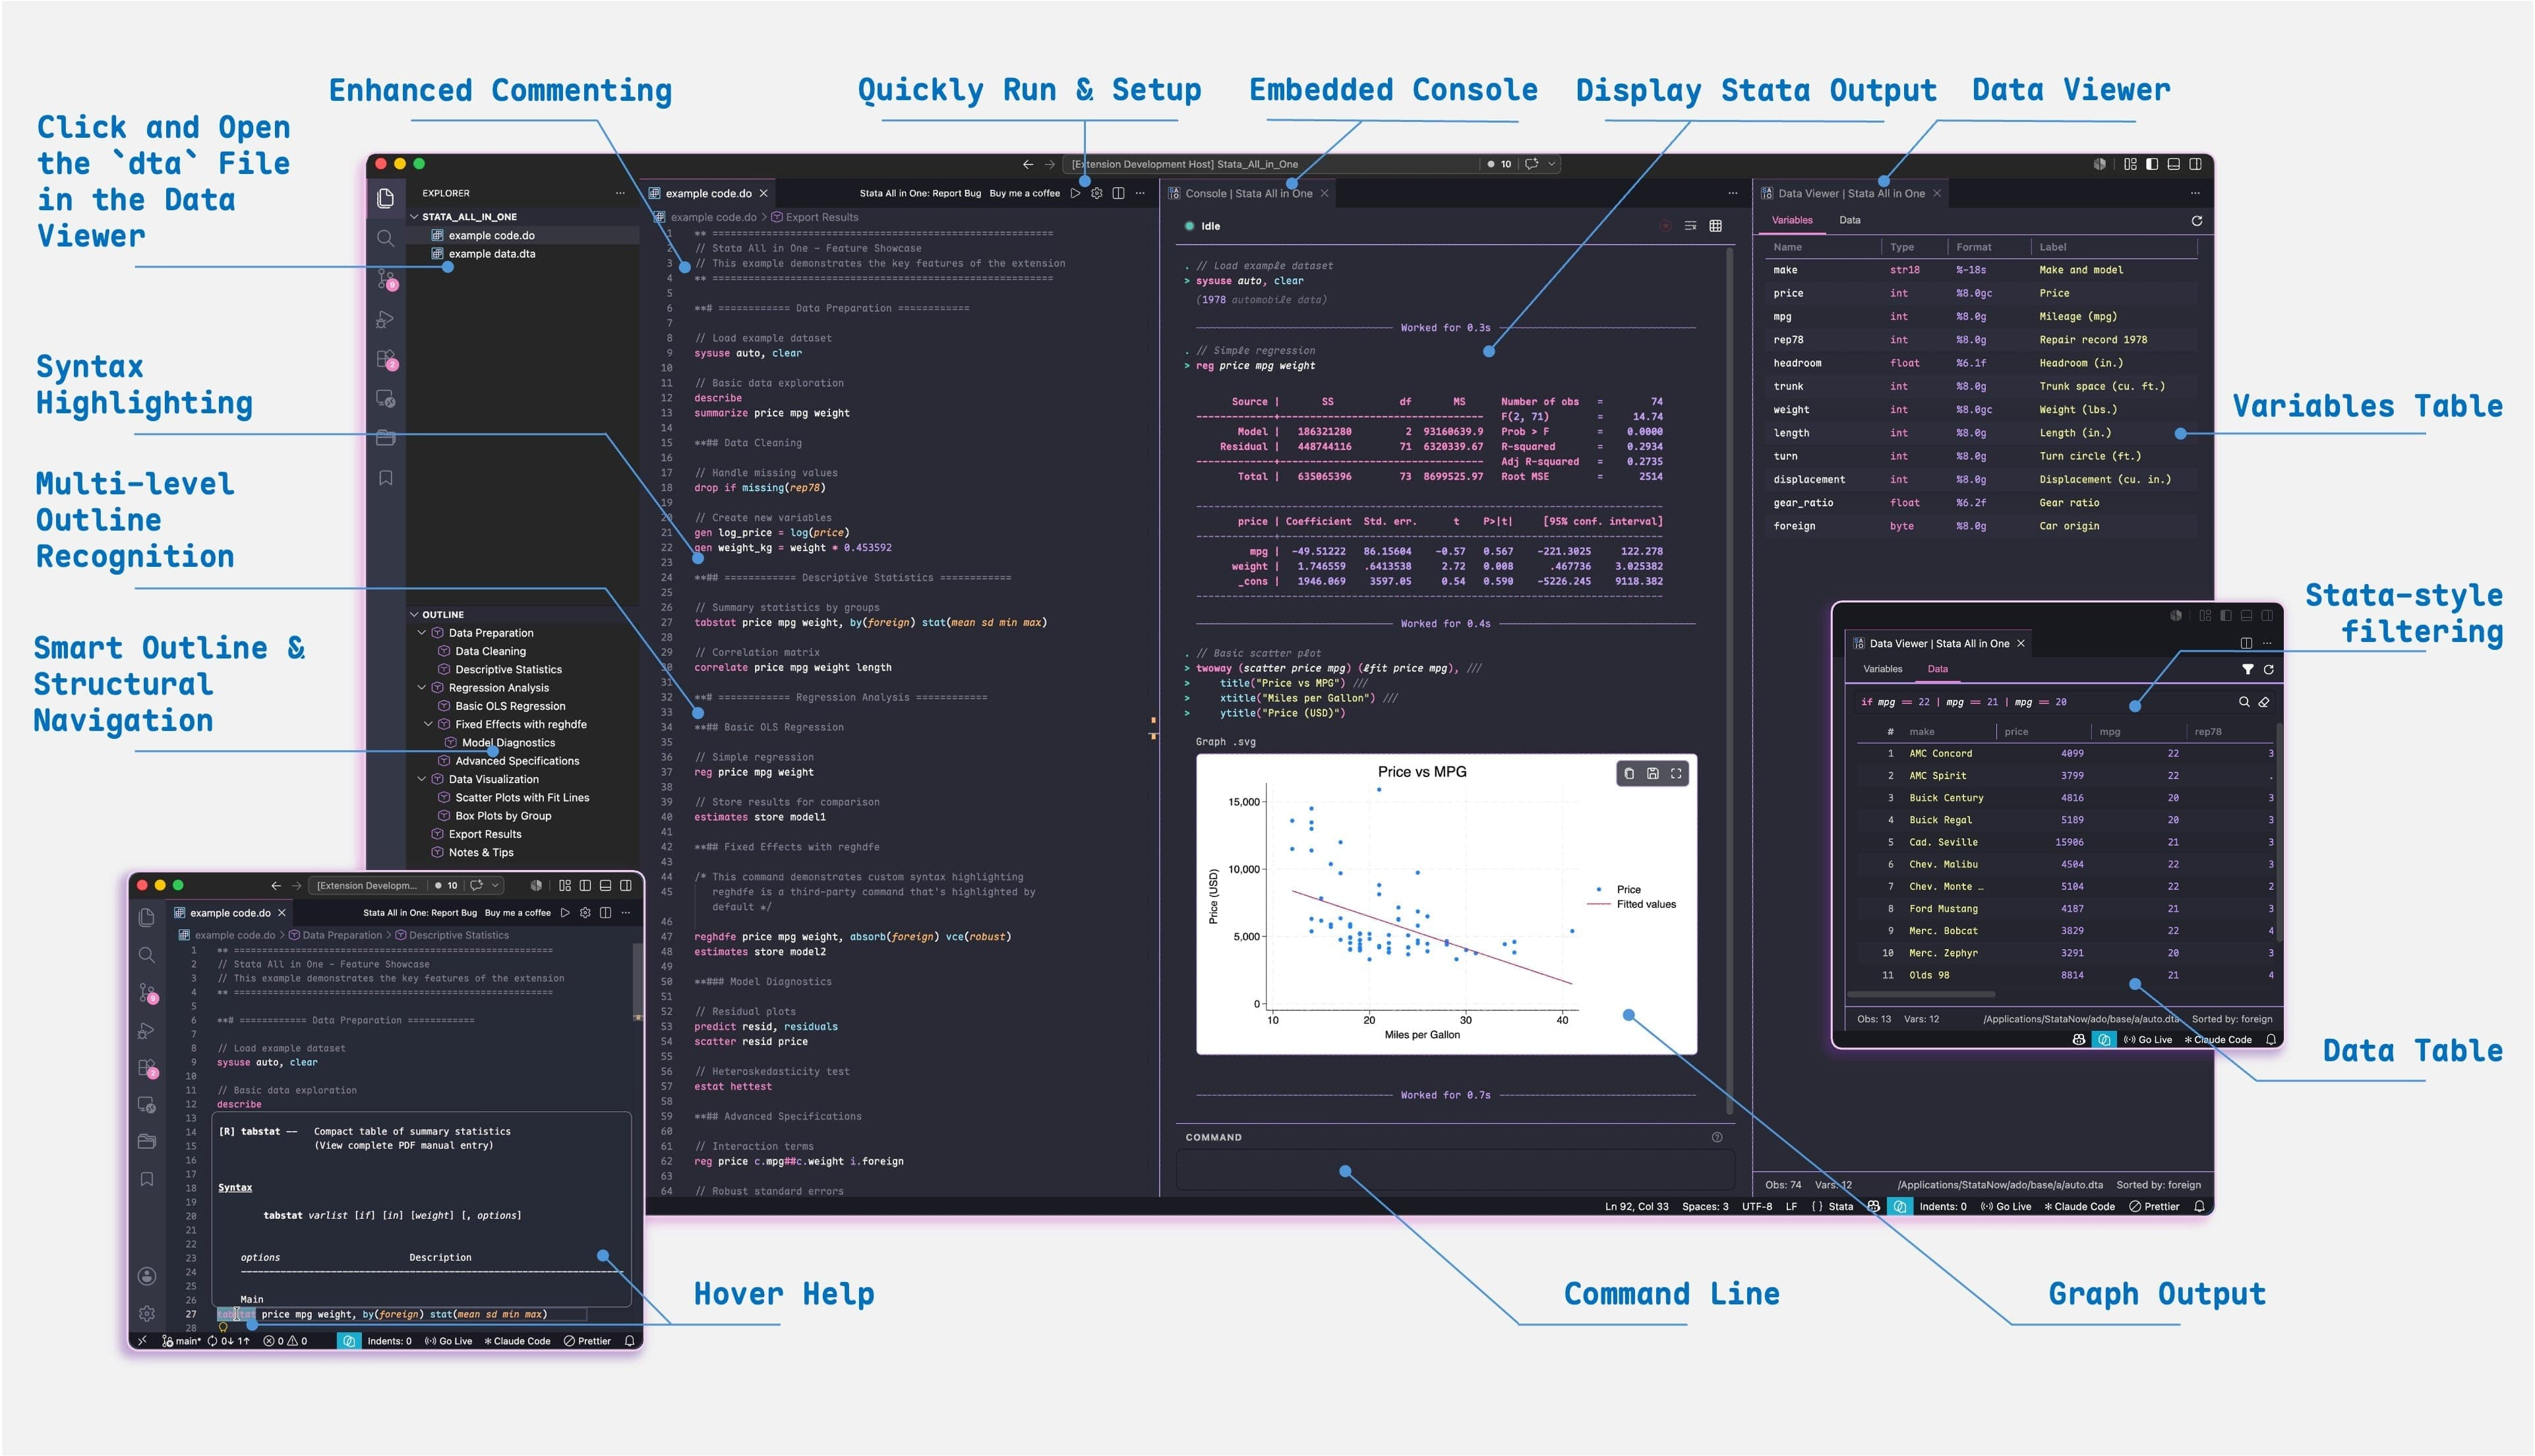
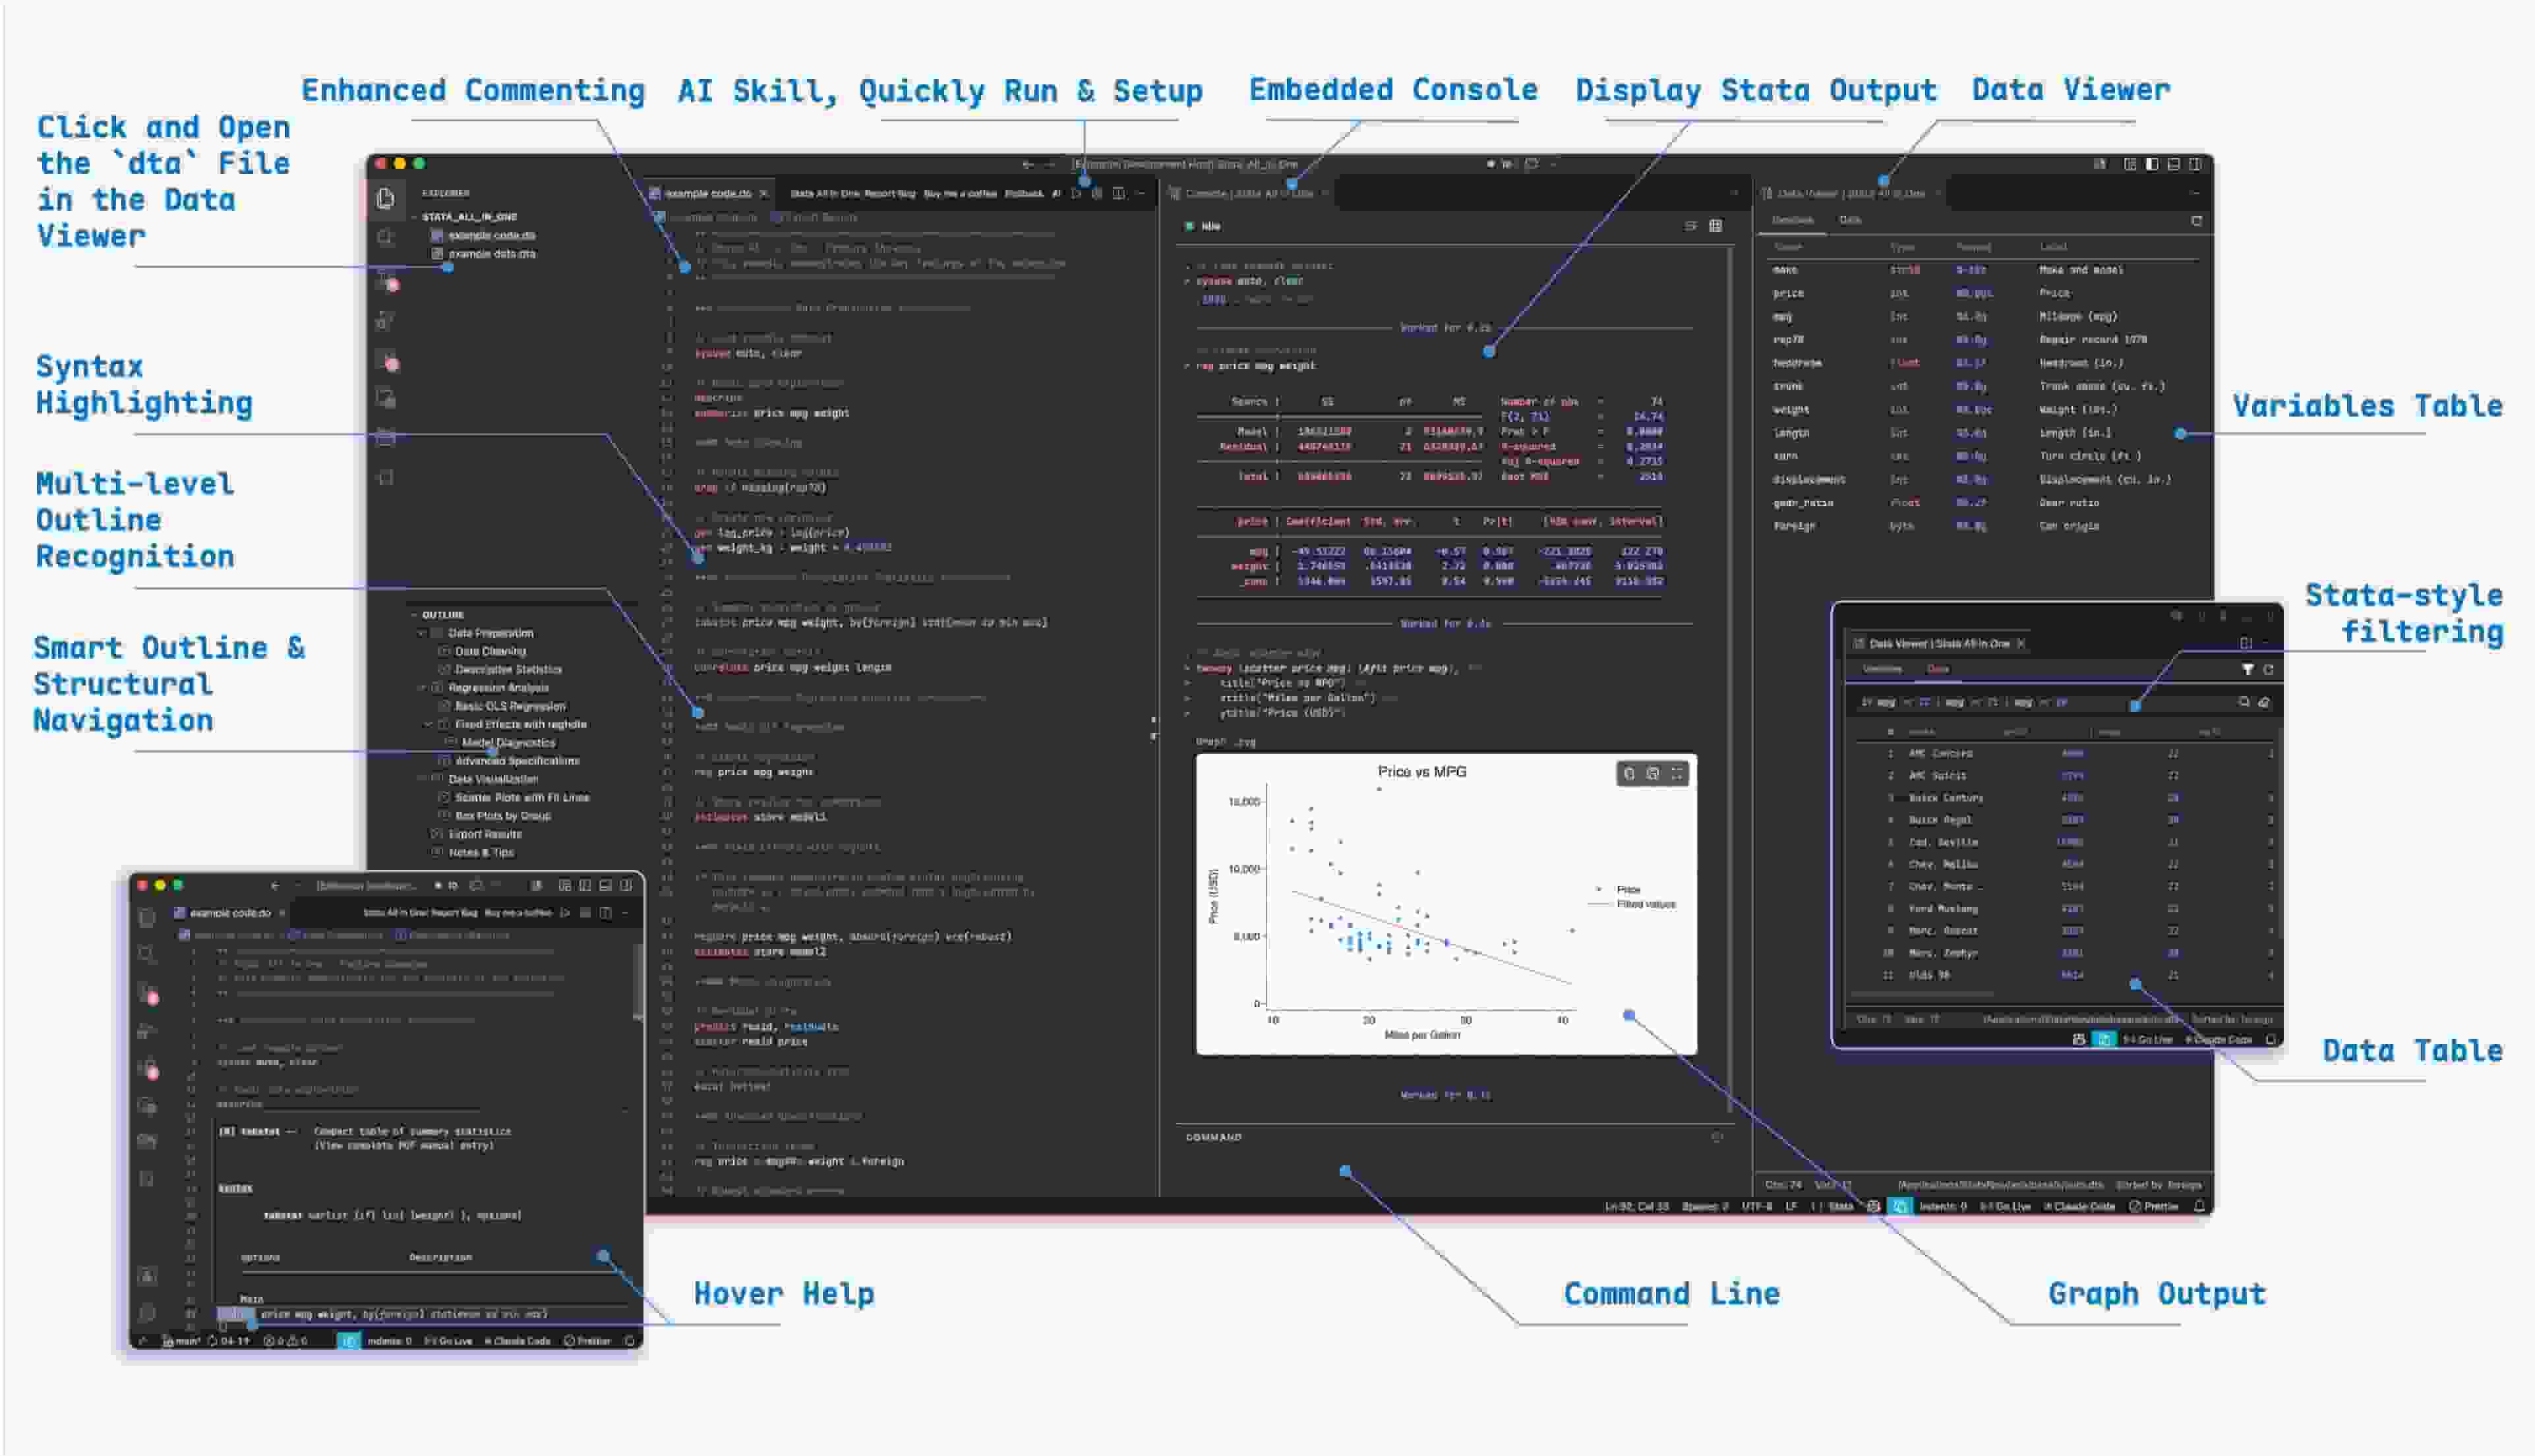
release: prepare v0.3.0 stable release
- 更新版本号到 0.3.0，并同步中英文 README 与 CHANGELOG。
- 移除预览版弹窗、回退按钮和无关调试命令，仅保留 update notice。
- 更新 0.3.0 更新提示链接、正式版展示图片和赞助致谢。

diff --git a/src/extension.js b/src/extension.js
@@ -31,7 +31,6 @@ const config = require('./utils/config');
 
 // Execution session state context key for "stop" button visibility
 const CONSOLE_SESSION_ACTIVE_KEY = 'stata-all-in-one.consoleSessionActive';
-const { showPreviewNotification, resetPreviewNotification, executeRollback } = require('./modules/previewNotification');
 
 const MIGRATION_MESSAGES = {
     en: {
@@ -296,9 +295,6 @@ async function activate(context) {
     // Check for updates and show notification
     registerUpdateCheck(context);
 
-    // Show preview version notification (≥ v0.2.14, < v0.3.0)
-    showPreviewNotification(context);
-
     try {
         await ensureConsoleFontCache(context);
     } catch (error) {
@@ -492,15 +488,6 @@ async function activate(context) {
     );
     context.subscriptions.push(sponsorCommand);
 
-    // Register rollback version command
-    const rollbackCommand = vscode.commands.registerCommand(
-        'stata-all-in-one.rollbackVersion',
-        () => {
-            executeRollback();
-        }
-    );
-    context.subscriptions.push(rollbackCommand);
-
     // Register data viewer command
     const { revealDataViewer } = require('./modules/runCode/embeddedConsole/dataViewer/panel');
     const dataViewerCommand = vscode.commands.registerCommand(
@@ -594,20 +581,6 @@ async function activate(context) {
     );
     context.subscriptions.push(resetEmbeddedConsoleOverflowNoticeCommand);
 
-    // Register debug command: Reset preview notification
-    const resetPreviewNotificationCommand = vscode.commands.registerCommand(
-        'stata-all-in-one.debugResetPreviewNotification',
-        async () => {
-            console.log('Stata All in One: Debug reset preview notification command executed');
-            await resetPreviewNotification(context);
-            const { MESSAGES } = require('./modules/previewNotification');
-            const lang = getUserLanguage();
-            const t = MESSAGES[lang] || MESSAGES.en;
-            showInfo(t.resetDone);
-        }
-    );
-    context.subscriptions.push(resetPreviewNotificationCommand);
-
     // ========== Diagnose Console ==========
 
     // Register diagnose console command
@@ -646,17 +619,6 @@ async function activate(context) {
         }
     );
     context.subscriptions.push(diagnoseConsoleCommand);
-
-    // Register reset capability state command (debug)
-    const resetCapabilityStateCommand = vscode.commands.registerCommand(
-        'stata-all-in-one.resetCapabilityState',
-        async () => {
-            console.log('Stata All in One: Reset capability state command triggered');
-            await capability.setCapabilityState(context, 'unverified');
-            showInfo('Capability state has been reset to UNVERIFIED. Run Stata code again before using Data Viewer; the AI button remains available for skill installation.');
-        }
-    );
-    context.subscriptions.push(resetCapabilityStateCommand);
 
     // ========== AI Skill ==========
 

diff --git a/src/modules/updateNotification.js b/src/modules/updateNotification.js
@@ -10,6 +10,10 @@ const { getUserLanguage, showInfo } = require('../utils/common');
 // Update changelog: version -> changelog text
 const CHANGELOG = {
     en: {
+        '0.3.0': {
+            ver_info: '✨ Stata All in One (0.3.0): Fixed known issues from the preview releases.',
+            more_url: 'https://github.com/ZihaoVistonWang/stata-all-in-one/blob/main/CHANGELOG.md#030-2026-07-06'
+        },
         '0.2.19': {
             ver_info: '✨ Stata All in One (0.2.19): Restored actual graph export execution in the Embedded Console, including PDF and PNG/JPG/JPEG output without sharp native binaries; added online CJK monospace font defaults for aligned mixed-language tables; bundled the standalone native Stata AI Skill and refined console/editor behavior.',
             more_url: 'https://github.com/ZihaoVistonWang/stata-all-in-one/blob/main/CHANGELOG.md#0219-0214-2026-06-18'
@@ -76,6 +80,10 @@ const CHANGELOG = {
         }
     },
     zh: {
+        '0.3.0': {
+            ver_info: '✨ Stata All in One (0.3.0)：修复预览版中的已知问题。',
+            more_url: 'https://gitee.com/ZihaoVistonWang/stata-all-in-one/blob/main/CHANGELOG.md#030-2026-07-06'
+        },
         '0.2.19': {
             ver_info: '✨ Stata All in One (0.2.19)：恢复 Embedded Console 中 graph export 的实际执行，支持 PDF 与 PNG/JPG/JPEG 导出且不再依赖 sharp 原生二进制；默认启用在线 CJK 等宽字体以改善中英混排表格对齐；内置独立原生 Stata AI Skill 并优化控制台/编辑器体验。',
             more_url: 'https://gitee.com/ZihaoVistonWang/stata-all-in-one/blob/main/CHANGELOG.md#0219-0214-2026-06-18'

diff --git a/README.md b/README.md
@@ -13,7 +13,7 @@ Stata All in One
 </p>
 
 <p align="center">
-   | <b>Version:</b><a href="https://github.com/ZihaoVistonWang/stata-all-in-one/releases"> 0.2.19</a> | <b>Author:</b> <a href="https://zihaowang.cn">Zihao Viston Wang</a> | <b>Translate:</b>
+   | <b>Version:</b><a href="https://github.com/ZihaoVistonWang/stata-all-in-one/releases"> 0.3.0</a> | <b>Author:</b> <a href="https://zihaowang.cn">Zihao Viston Wang</a> | <b>Translate:</b>
   <a href="https://gitee.com/ZihaoVistonWang/stata-all-in-one">中文版本</a> |
 </p>
 
@@ -43,19 +43,16 @@ Stata All in One
   padding: 18px 22px;
 ">
 <p style="margin:0 0 12px 0; font-size:1.25em; text-align:center;">
-  🚨 <strong>Preview Release Notice</strong> 🚨
+  ✅ <strong>Stable Release Notice</strong> ✅
 </p>
 <p style="margin:0 0 8px 0; padding-left: 1.6em; text-indent: -1.6em;">
-  ⚠️ <strong>v0.2.19-0.2.14 are preview releases (pre-release)</strong> and may contain many bugs. It is not recommended for production use. Thank you to everyone willing to try it out and provide feedback!
+  🎉 <strong>v0.3.0 is the first stable release after the preview series.</strong> It fixes known issues from the preview releases and keeps the new Embedded Console, Data Viewer, Graph Support, and AI Skill workflows.
 </p>
 <p style="margin:0 0 8px 0; padding-left: 1.6em; text-indent: -1.6em;">
   📧 If you encounter any issues, please send bug descriptions, reproduction steps, and screenshots to <a href="mailto:[email redacted]"><strong>[email redacted]</strong></a>.
 </p>
 <p style="margin:0 0 8px 0; padding-left: 1.6em; text-indent: -1.6em;">
-  🎯 <strong>The stable v0.3.0 is expected in early July 2026</strong>, with bug fixes and a more stable experience.
-</p>
-<p style="margin:0 0 8px 0; padding-left: 1.6em; text-indent: -1.6em;">
-  📌 <mark>Highlighted text</mark> denotes new additions in the preview version.
+  📌 See <a href="CHANGELOG.md#030-2026-07-06"><strong>CHANGELOG.md</strong></a> for the full v0.3.0 release notes.
 </p>
 </td>
 </tr>
@@ -63,7 +60,7 @@ Stata All in One
 
 ## Sponsors
 
-Special thanks to RedNote user **Rich\*\*d**, WeChat user **M\*k\***, **柿\*\*橙**, an anonymous user who commented “功能强大且配置简单的插件，谢谢！”, and Buy Me a Coffee supporter **LB\*\*[email redacted]** for their generous contributions and continued support of this project.
+Special thanks to RedNote user **Rich\*\*d**, WeChat users **M\*k\*** and **柿\*\*橙**, an anonymous user who commented “功能强大且配置简单的插件，谢谢！”, and Buy Me a Coffee supporters **LB\*\*[email redacted]** and **ol\*\*\*[email redacted]** for their generous contributions and continued support of this project.
 
 ## Features
 
@@ -229,57 +226,54 @@ Click the `AI` button in the Stata editor toolbar to copy a prompt that installs
    - `true` (default): Automatically set Stata's working directory to the do file's location on first launch.
    - `false`: Stata's working directory is not changed on startup.
 
-8. **Show Run Button** (`stata-all-in-one.showRunButton`)
-   - `true` (default): Show the run button in the editor title bar.
-   - `false`: Hide the button.
-
-9. **Show Action Buttons** (`stata-all-in-one.showActionButtons`)
-   - `true` (default): Show the "Bug Report" and "Sponsor" buttons in the editor title bar.
+8. **Show Action Buttons** (`stata-all-in-one.showActionButtons`)
+   - `true` (default): Show the "Bug Report", "Sponsor", and "AI" buttons in the editor title bar.
    - `false`: Hide these buttons.
 
-10. **Enable Ctrl+Shift+D for Run Shortcut** (`stata-all-in-one.enableCtrlShiftD`)
+9. **Enable Ctrl+Shift+D for Run Shortcut** (`stata-all-in-one.enableCtrlShiftD`)
     - `true`: Use `Ctrl/Cmd+Shift+D` as the run code shortcut.
     - `false` (default): Use the default `Ctrl/Cmd+D` shortcut.
 
 ### Embedded Console
 
-11. <mark>**Console Font Mode** (`stata-all-in-one.consoleFontMode`)</mark>
+10. <mark>**Console Font Mode** (`stata-all-in-one.consoleFontMode`)</mark>
     - `online` (default): Load Maple Mono for Latin text and Maple Mono NF CN for CJK text.
     - `editor`: Follow the editor font, falling back to the system monospace font.
     - `system`: Use the system monospace font directly.
     - `custom`: Use the custom font specified below.
+    - Font credits: [subframe7536/maple-font](https://github.com/subframe7536/maple-font), [fontsource](https://fontsource.org/fonts/maple-mono), and ZeoSeven Fonts ([443](https://fonts.zeoseven.com/items/443/), [442](https://fonts.zeoseven.com/items/442/)).
 
-12. <mark>**Console Custom Font Family** (`stata-all-in-one.consoleCustomFontFamily`)</mark>
+11. <mark>**Console Custom Font Family** (`stata-all-in-one.consoleCustomFontFamily`)</mark>
     - When font mode is set to `custom`, the CSS `font-family` list used by the console.
     - Example: `"Maple Mono NF CN", Menlo, Monaco, monospace`
 
-13. <mark>**Graph Export DPI** (`stata-all-in-one.graphPngDpi`)</mark>
+12. <mark>**Graph Export DPI** (`stata-all-in-one.graphPngDpi`)</mark>
     - DPI value for saving embedded console graphs as PNG. Default `600`, range 72–1200.
 
 ### Syntax Highlighting and Code Completion
 
-14. **Custom Command Highlighting** (`stata-all-in-one.customCommands`)
+13. **Custom Command Highlighting** (`stata-all-in-one.customCommands`)
     - User-defined Stata commands to highlight as keywords (array of strings). Default: `reghdfe`.
     - Example: `["reghdfe", "ivreghdfe", "gtools", "winsor2", "outreg2"]`
     - **Requires reloading window** after configuration.
 
 ### Hover Help
 
-15. <mark>**Enable Hover Docs** (`stata-all-in-one.enableHoverDocs`)</mark>
+14. <mark>**Enable Hover Docs** (`stata-all-in-one.enableHoverDocs`)</mark>
     - `true` (default): Show official Stata help information when hovering over Stata commands.
     - `false`: Disable hover help.
 
-16. <mark>**Additional ADO Paths** (`stata-all-in-one.additionalAdoPaths`)</mark>
+15. <mark>**Additional ADO Paths** (`stata-all-in-one.additionalAdoPaths`)</mark>
     - Extra Stata ADO paths for scanning help files of community-contributed commands.
     - Example: `["/Users/username/ado/personal", "C:\\Users\\username\\ado\\personal"]`
 
 ### Outline & Navigation
 
-17. **Display Multi-level Numbering** (`stata-all-in-one.numberingShow`)
+16. **Display Multi-level Numbering** (`stata-all-in-one.numberingShow`)
     - `true`: Outline displays `1.1`, `1.2.1` style numbering.
     - `false` (default): Displays original headings.
 
-18. **Auto-update Heading Numbering** (`stata-all-in-one.numberingAdd`)
+17. **Auto-update Heading Numbering** (`stata-all-in-one.numberingAdd`)
     - `true`: **When numbering is enabled**, automatically update section titles in `.do` files to include numbers.
     - `false` (default): Only displays numbering in outline, doesn't modify file.
 
@@ -287,15 +281,15 @@ Click the `AI` button in the Stata editor toolbar to copy a prompt that installs
 
 ### Code Style
 
-19. **Comment Style** (`stata-all-in-one.commentStyle`)
+18. **Comment Style** (`stata-all-in-one.commentStyle`)
     - `// ` (default): Comment style used for toggling comments. Options include `//`, `*`, or `/* ... */`
 
-20. **Separator Length** (`stata-all-in-one.separatorLength`)
+19. **Separator Length** (`stata-all-in-one.separatorLength`)
     - Total character length of the separator line (including the `** #` prefix and separators). Default: `60`
 
 <a id="separatorSymmetric"></a>
 
-21. **Separator Symmetric** (`stata-all-in-one.separatorSymmetric`)
+20. **Separator Symmetric** (`stata-all-in-one.separatorSymmetric`)
     - `true`: Add ` **` at the end of separator lines to ensure visual symmetry (e.g., `** === Title === **`).
     - `false` (default): Separator lines without the suffix.
 
@@ -315,6 +309,7 @@ If this extension has been helpful to you, feel free to scan the **Alipay** (lef
 
 | Version | Changes                                                                                                              | Release Date |
 | ------- | -------------------------------------------------------------------------------------------------------------------- | ------------ |
+| 0.3.0  | Stable release: Fixed known issues from the preview releases | 2026-07-06   |
 | 0.2.19  | Bundled the standalone native `stata-ai-skill`; fixed macOS Console inheritance of Stata Python settings; refined Stata editor actions | 2026-06-18   |
 | 0.2.18  | Preview release: Fixed Windows Embedded Console init failure; Added STATA.LIC license detection with dialog prompt; Fixed webview Service Worker registration error; Improved console input styling; Fixed AI Skill multi-line code execution | 2026-06-07   |
 | 0.2.17-0.2.14  | Preview release: Introduced AI Skill, Embedded Console, Data Viewer, and Graph Support; improved Hover help display; bug fixes | 2026-05-31   |

diff --git a/README_CN.md b/README_CN.md
@@ -13,7 +13,7 @@ Stata All in One
 </p>
 
 <p align="center">
-   | <b>版本:</b><a href="https://github.com/ZihaoVistonWang/stata-all-in-one/releases"> 0.2.19</a> | <b>作者:</b> <a href="https://zihaowang.cn">王梓豪</a> | <b>Translate:</b>
+   | <b>版本:</b><a href="https://github.com/ZihaoVistonWang/stata-all-in-one/releases"> 0.3.0</a> | <b>作者:</b> <a href="https://zihaowang.cn">王梓豪</a> | <b>Translate:</b>
   <a href="https://github.com/ZihaoVistonWang/stata-all-in-one">English Version</a> |
 </p>
 
@@ -43,19 +43,16 @@ Stata All in One
   padding: 18px 22px;
 ">
 <p style="margin:0 0 12px 0; font-size:1.25em; text-align:center;">
-  🚨 <strong>预览版提醒</strong> 🚨
+  ✅ <strong>正式版发布提醒</strong> ✅
 </p>
 <p style="margin:0 0 8px 0; padding-left: 1.6em; text-indent: -1.6em;">
-  ⚠️ <strong>v0.2.19-0.2.14 为预览版本（pre-release）</strong>，可能存在较多 bug，不建议在生产环境中使用。感谢每一位愿意尝鲜并反馈问题的用户！
+  🎉 <strong>v0.3.0 是预览版系列后的首个正式版本。</strong> 本版本修复预览版中的已知问题，并保留 Embedded Console、数据查看器、图形支持和 AI Skill 等新工作流。
 </p>
 <p style="margin:0 0 8px 0; padding-left: 1.6em; text-indent: -1.6em;">
   📧 如遇到任何问题，请将 bug 描述、复现步骤和截图发送至 <a href="mailto:[email redacted]"><strong>[email redacted]</strong></a>。
 </p>
 <p style="margin:0 0 8px 0; padding-left: 1.6em; text-indent: -1.6em;">
-  🎯 <strong>正式版 v0.3.0 预计于 2026 年 7 月初发布</strong>，届时将修复已知问题并提供更稳定的体验。
-</p>
-<p style="margin:0 0 8px 0; padding-left: 1.6em; text-indent: -1.6em;">
-  📌 本文档内的<mark>高亮部分</mark>代表预览版中的新增内容。
+  📌 完整 v0.3.0 更新记录见 <a href="CHANGELOG.md#030-2026-07-06"><strong>CHANGELOG.md</strong></a>。
 </p>
 </td>
 </tr>
@@ -63,7 +60,7 @@ Stata All in One
 
 ## 致谢
 
-感谢小红书用户 **Rich\*\*d**、微信用户 **M\*k\***、**柿\*\*橙**、评论 “功能强大且配置简单的插件，谢谢！” 的匿名用户，以及 Buy me a coffee 用户 **LB\*\*[email redacted]** 对本项目的支持。
+感谢小红书用户 **Rich\*\*d**、微信用户 **M\*k\***、**柿\*\*橙**、评论 “功能强大且配置简单的插件，谢谢！” 的匿名用户，以及 Buy me a coffee 用户 **LB\*\*[email redacted]**、**ol\*\*\*[email redacted]** 对本项目的支持。
 
 ## 功能概览
 
@@ -229,57 +226,54 @@ Stata All in One
    - `true`（默认）：Stata 首次启动时自动将工作目录切换到当前 do 文件所在位置。
    - `false`：Stata 启动后不更改工作目录。
 
-8. **显示运行按钮** (`stata-all-in-one.showRunButton`)
-   - `true`（默认）：在编辑器标题栏显示运行按钮。
-   - `false`：隐藏按钮。
-
-9. **显示操作按钮** (`stata-all-in-one.showActionButtons`)
-   - `true`（默认）：在编辑器标题栏显示"Bug 反馈"和"打赏支持"按钮。
+8. **显示操作按钮** (`stata-all-in-one.showActionButtons`)
+   - `true`（默认）：在编辑器标题栏显示"Bug 反馈"、"打赏支持"和"AI"按钮。
    - `false`：隐藏这两个按钮。
 
-10. **启用 Ctrl+Shift+D 作为运行快捷键** (`stata-all-in-one.enableCtrlShiftD`)
+9. **启用 Ctrl+Shift+D 作为运行快捷键** (`stata-all-in-one.enableCtrlShiftD`)
    - `true`：使用 `Ctrl/Cmd+Shift+D` 作为运行代码的快捷键。
    - `false`（默认）：使用默认的 `Ctrl/Cmd+D` 快捷键。
 
 ### 嵌入式控制台
 
-11. <mark>**控制台字体模式** (`stata-all-in-one.consoleFontMode`)</mark>
+10. <mark>**控制台字体模式** (`stata-all-in-one.consoleFontMode`)</mark>
    - `online`（默认）：为西文加载 Maple Mono，为 CJK 文本加载 Maple Mono NF CN。
    - `editor`：跟随编辑器字体，降级到系统等宽字体。
    - `system`：直接使用系统等宽字体。
    - `custom`：使用下方自定义字体设置。
+   - 字体致谢：[subframe7536/maple-font](https://github.com/subframe7536/maple-font)、[fontsource](https://fontsource.org/fonts/maple-mono) 和 ZeoSeven Fonts（[443](https://fonts.zeoseven.com/items/443/)、[442](https://fonts.zeoseven.com/items/442/)）。
 
-12. <mark>**控制台自定义字体** (`stata-all-in-one.consoleCustomFontFamily`)</mark>
+11. <mark>**控制台自定义字体** (`stata-all-in-one.consoleCustomFontFamily`)</mark>
     - 当字体模式设为 `custom` 时，控制台使用的 CSS `font-family` 列表。
     - 示例：`"Maple Mono NF CN", Menlo, Monaco, monospace`
 
-13. <mark>**图形导出 DPI** (`stata-all-in-one.graphPngDpi`)</mark>
+12. <mark>**图形导出 DPI** (`stata-all-in-one.graphPngDpi`)</mark>
     - 嵌入式控制台图形保存为 PNG 时的 DPI 值。默认 `600`，范围 72–1200。
 
 ### 语法高亮和代码提示
 
-14. **自定义命令高亮** (`stata-all-in-one.customCommands`)
+13. **自定义命令高亮** (`stata-all-in-one.customCommands`)
     - 自定义需要高亮的 Stata 命令（字符串数组），默认包含 `reghdfe`。
     - 示例：`["reghdfe", "ivreghdfe", "gtools", "winsor2", "outreg2"]`
     - **配置后需要重载窗口生效**。
 
 ### Hover 悬停帮助
 
-15. <mark>**启用悬停文档** (`stata-all-in-one.enableHoverDocs`)</mark>
+14. <mark>**启用悬停文档** (`stata-all-in-one.enableHoverDocs`)</mark>
     - `true`（默认）：鼠标悬停在 Stata 命令上时显示官方帮助信息。
     - `false`：关闭悬停帮助。
 
-16. <mark>**额外 ADO 路径** (`stata-all-in-one.additionalAdoPaths`)</mark>
+15. <mark>**额外 ADO 路径** (`stata-all-in-one.additionalAdoPaths`)</mark>
     - 用于扫描社区贡献命令帮助文件的额外 Stata ADO 路径。
     - 示例：`["/Users/username/ado/personal", "C:\\Users\\username\\ado\\personal"]`
 
 ### 大纲与导航
 
-17. **显示多级序号** (`stata-all-in-one.numberingShow`)
+16. **显示多级序号** (`stata-all-in-one.numberingShow`)
     - `true`：大纲显示 `1.1`、`1.2.1` 等序号。
     - `false`（默认）：显示原始标题。
 
-18. **自动添加标题序号** (`stata-all-in-one.numberingAdd`)
+17. **自动添加标题序号** (`stata-all-in-one.numberingAdd`)
     - `true`：**当启用序号时**，自动更新 `.do` 文件中的 section 标题以包含序号。
     - `false`（默认）：仅大纲显示序号，不修改文件。
 
@@ -287,15 +281,15 @@ Stata All in One
 
 ### 代码风格
 
-19. **注释样式** (`stata-all-in-one.commentStyle`)
+18. **注释样式** (`stata-all-in-one.commentStyle`)
     - `// `（默认）：用于切换注释的样式。选项包括 `//`、`*` 或 `/* ... */`
 
-20. **分隔线长度** (`stata-all-in-one.separatorLength`)
+19. **分隔线长度** (`stata-all-in-one.separatorLength`)
     - 分割线所在行的字符总长度（包括前缀 `** #` 和分隔符）。默认值：`60`
 
 <a id="separatorSymmetric"></a>
 
-21. **分隔线对称性** (`stata-all-in-one.separatorSymmetric`)
+20. **分隔线对称性** (`stata-all-in-one.separatorSymmetric`)
     - `true`：在分割线末尾添加 ` **` 以保证视觉对称（例如 `** === 标题 === **`）。
     - `false`（默认）：分割线不添加末尾后缀。
 
@@ -315,6 +309,7 @@ Stata All in One
 
 | 版本   | 更新内容                                                                           | 发布日期   |
 | ------ | ---------------------------------------------------------------------------------- | ---------- |
+| 0.3.0 | 正式版：修复预览版中的已知问题 | 2026-07-06 |
 | 0.2.19 | 内置独立原生 `stata-ai-skill`；修复 macOS Console 继承 Stata Python 配置；优化 Stata 编辑器操作按钮 | 2026-06-18 |
 | 0.2.18 | 预览版：修复 Windows 嵌入式控制台初始化失败；新增 STATA.LIC 证书检测与弹窗提示；修复 webview Service Worker 注册错误；优化命令行输入框样式；修复 AI Skill 多行代码执行问题 | 2026-06-07 |
 | 0.2.17-0.2.14 | 预览版：引入 AI Skill、嵌入式控制台、数据查看器和图形支持等核心功能；优化 Hover 帮助显示；修复已知问题 | 2026-05-31 |

diff --git a/CHANGELOG.md b/CHANGELOG.md
@@ -3,11 +3,20 @@
 All notable changes to the Stata All in One extension will be documented in this file.
 本文件记录 Stata All in One 扩展的所有重要更改。
 
+## 0.3.0 (2026-07-06)
+
+> Stable release after the 0.2.14-0.2.19 preview series.
+>
+> 这是 0.2.14-0.2.19 预览版系列后的正式版本。
+
+- **Fixed**: Fixed known issues from the preview releases.
+- **修复**：修复预览版中的已知问题。
+
 ## 0.2.19-0.2.14 (2026-06-18)
 
-> This is a major pre-release update with significant new features and improvements, currently in testing phase. Expected to be officially released in July.
+> Historical preview series with significant new features and improvements.
 >
-> 这是一个包含重大新功能和改进的预发布版本，目前处于测试阶段，预计将在7月正式发布。
+> 历史预览版系列，包含重要新功能和改进。
 
 - **Feat (Experimental)**: AI Skill — bundle the standalone native `stata-ai-skill` so AI coding tools (Claude Code, Cursor, Codex CLI, Open Code, OpenClaw, etc.) can run Stata through a Rust background service at `http://127.0.0.1:19522`. The `AI` toolbar button copies an installation prompt for AI agents.
 - **Feat**: Packaged native AI Skill binaries and `SKILL.md` runtime guide are included under the extension `skill/` directory for agent installation.